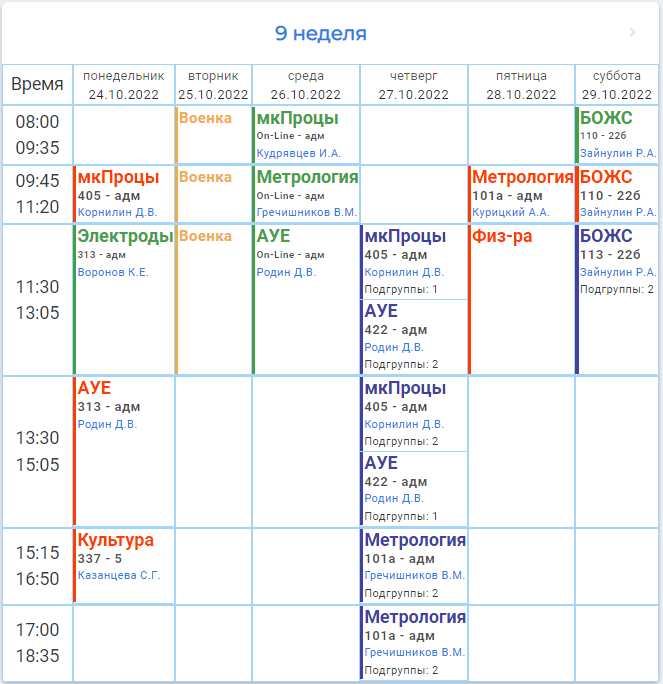
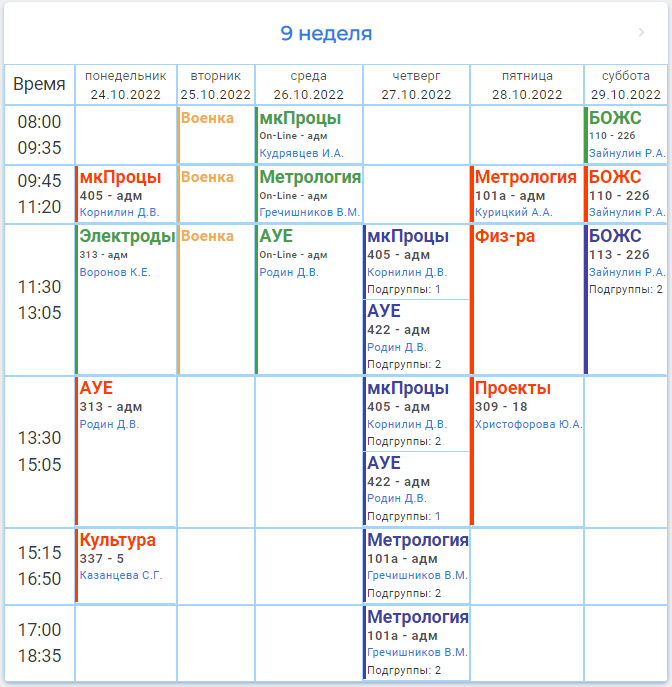
<init>

Changed region(s): [[0.0, 0.0921, 0.9955, 1.0], [0.3922, 0.0307, 0.5732, 0.0614]]

diff --git a/index.html b/index.html
@@ -19,9 +19,12 @@
 
 <!-- Информационные сообщения слева страницы -->
 <p id="mess" class="hide-on-mobile">
-Микропроцессоры:</strong>
+Микропроцессоры:
 <!-- <br>10.10 - дедлайн теста по электронным ключам -->
-<br>23.10 - дедлайн теста "Язык VHDL"<br>Культурология:</strong> <br>22.10 - последний день регистрации на олимпиаду, 23.10 - последний день для прохождения 1 этапа, инфо - в мессенджере<br><br>
+<!-- <br>23.10 - дедлайн теста "Язык VHDL" -->
+<br>15.11 - дедлайн теста "Синтез цифровых устройств с помощью VHDL"<br>
+<!-- Культурология: -->
+<!-- <br>22.10 - последний день регистрации на олимпиаду, 23.10 - последний день для прохождения 1 этапа, инфо - в мессенджере<br><br> -->
 
 <!-- про Буша</strong><br class="inline"> -->
 <!-- контрольная и дедлайн по бушевику 27  -->
@@ -143,12 +146,14 @@ document.querySelector('#calendar2 thead tr:nth-child(1) td:nth-child(3)').oncli
 
 <details class="details1"><summary>Расписания</summary>
 	<p id="rasp"  hidden></p>
-			<figure><img src="rasp/8.png?v=10"><figcaption>8</figcaption></figure>
+		<figure><img src="rasp/9.png?1"><figcaption>9</figcaption></figure>		
 	<details class="details2"><summary>Расписания на следующие недели</summary>
-	
-		<figure><img src="rasp/9.png"><figcaption>9</figcaption></figure>		
 		<figure><img src="rasp/10.png"><figcaption>10</figcaption></figure>	
 		<figure><img src="rasp/11.png"><figcaption>11</figcaption></figure>			
+		<figure><img src="rasp/12.png"><figcaption>12</figcaption></figure>			
+		<figure><img src="rasp/13.png"><figcaption>13</figcaption></figure>			
+		<figure><img src="rasp/14.png"><figcaption>14</figcaption></figure>	
+		<figure><img src="rasp/15.png"><figcaption>15</figcaption></figure>			
 	</details>
 	<details class="details2"><summary>Расписания прошедших недель</summary>	
 		<figure><img src="rasp/1.png"><figcaption>1</figcaption></figure>
@@ -158,6 +163,7 @@ document.querySelector('#calendar2 thead tr:nth-child(1) td:nth-child(3)').oncli
 		<figure><img src="rasp/5.png"><figcaption>5</figcaption></figure>
 		<figure><img src="rasp/6.png"><figcaption>6</figcaption></figure>
 		<figure><img src="rasp/7.png"><figcaption>7</figcaption></figure>	
+		<figure><img src="rasp/8.png"><figcaption>8</figcaption></figure>
 	</details> 
 	<details class="details2"><summary>Расписание пересдач</summary>	
 		<figure><img src="rasp/rasp.png"><figcaption>1</figcaption></figure>
